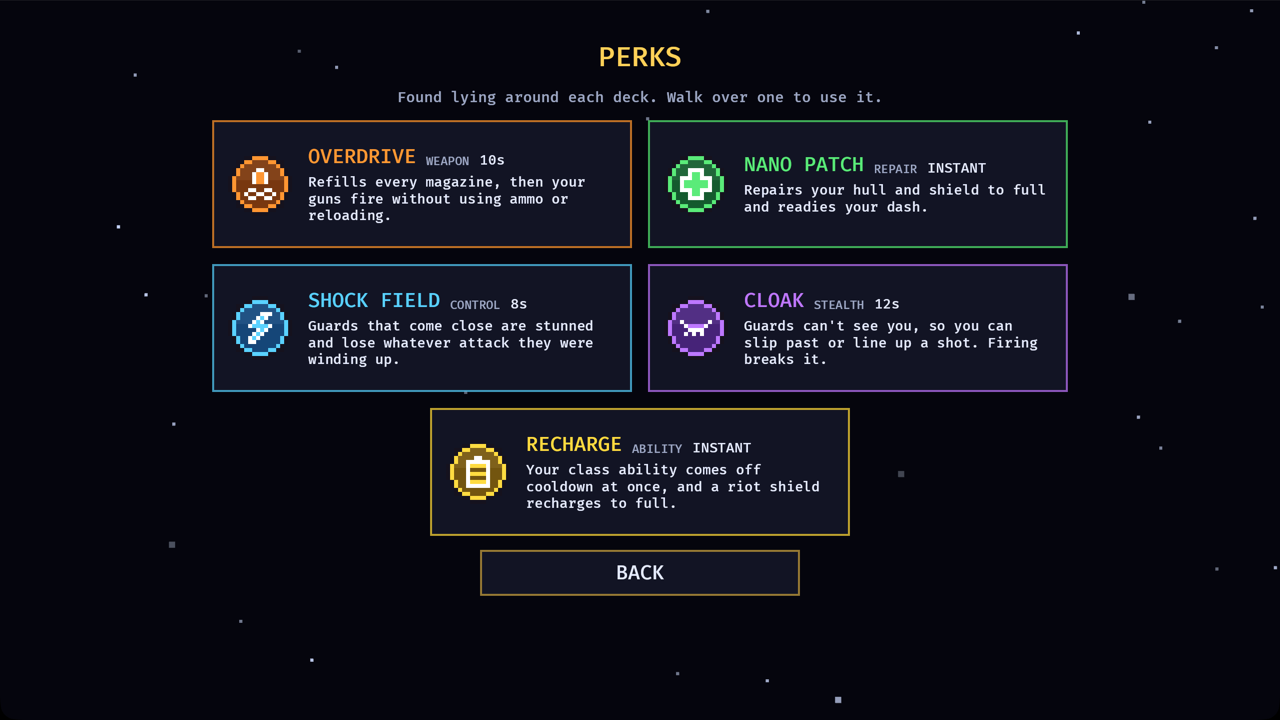
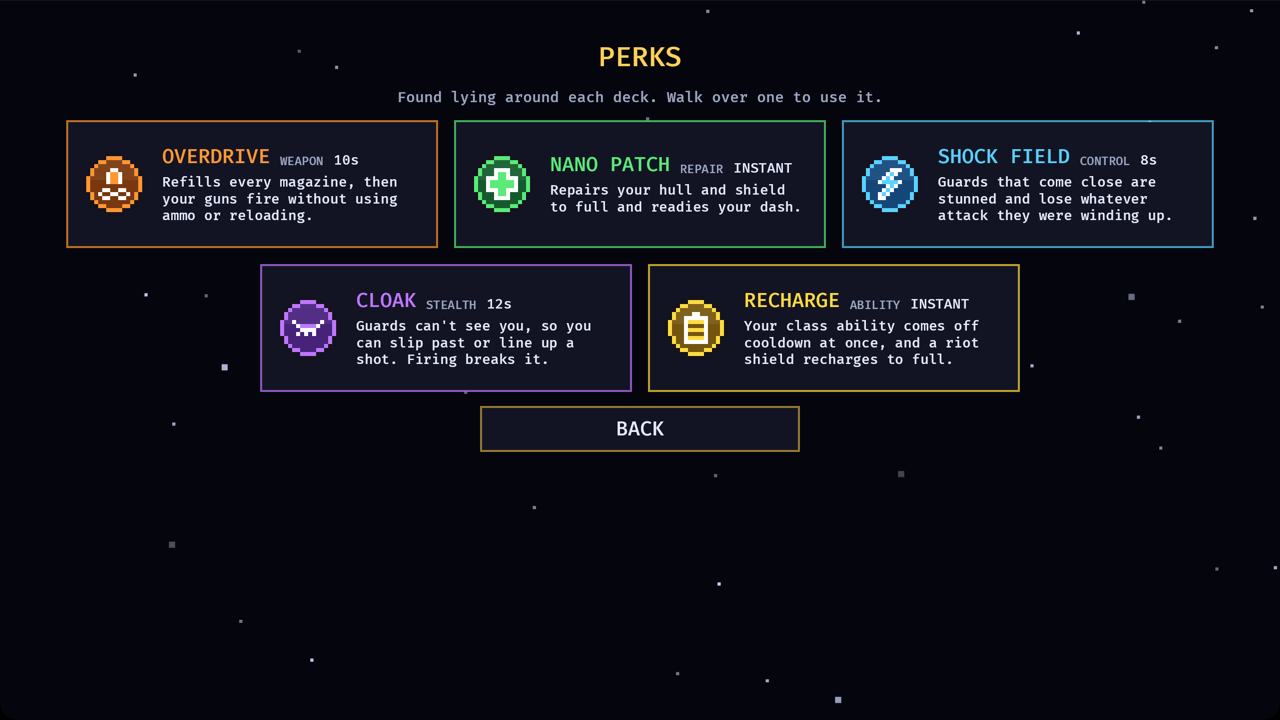
Updated the README screenshots and fit the enemies screen in 720p
Added shots of the vault breach vote and each of the three bosses, and
retook the enemies and perks screens. The codex screens now lay cards out
three to a row so the enemies screen, with its third boss, fits a 1280x720
window, and card names no longer wrap.

diff --git a/src/menu.rs b/src/menu.rs
@@ -783,14 +783,15 @@ fn codex_screen(
                         row_gap: Val::Px(16.0),
                         flex_wrap: FlexWrap::Wrap,
                         justify_content: JustifyContent::Center,
-                        max_width: Val::Px(900.0),
+                        // Three cards a row, so it all fits a 720 px tall window.
+                        max_width: Val::Px(1180.0),
                         ..default()
                     })
                     .with_children(|grid| {
                         for entry in &section.entries {
                             grid.spawn((
                                 Node {
-                                    width: Val::Px(420.0),
+                                    width: Val::Px(372.0),
                                     min_height: Val::Px(card_height),
                                     align_items: AlignItems::Center,
                                     column_gap: Val::Px(16.0),
@@ -824,15 +825,18 @@ fn codex_screen(
                                     ..default()
                                 })
                                 .with_children(|info| {
+                                    // Names stay whole; the tag drops below one that's too long.
                                     info.spawn(Node {
                                         column_gap: Val::Px(10.0),
+                                        row_gap: Val::Px(2.0),
+                                        flex_wrap: FlexWrap::Wrap,
                                         align_items: AlignItems::Baseline,
                                         ..default()
                                     })
                                     .with_children(|heading| {
-                                        heading.spawn(label(entry.name, 20.0, entry.color));
-                                        heading.spawn(label(entry.tag, 12.0, DIM));
-                                        heading.spawn(label(entry.note.clone(), 14.0, TEXT));
+                                        heading.spawn((label(entry.name, 20.0, entry.color), TextLayout::no_wrap()));
+                                        heading.spawn((label(entry.tag, 12.0, DIM), TextLayout::no_wrap()));
+                                        heading.spawn((label(entry.note.clone(), 14.0, TEXT), TextLayout::no_wrap()));
                                     });
                                     info.spawn(label(entry.details, 14.0, TEXT));
                                 });

diff --git a/README.md b/README.md
@@ -114,6 +114,10 @@ Built with Rust and [Bevy](https://bevyengine.org/); LAN multiplayer uses
 | The crew lobby: one of each class, picked by whoever took it | The perks lying around each deck, under **EXTRAS** |
 | ![A raid](docs/screenshots/raid.png) | ![Results](docs/screenshots/results.png) |
 | Two pirates pulling bars out of deck 2's gold vault in lockdown, with guards closing in | The last pirate out takes the crew's pool, plus a bonus for the crewmate who left early |
+| ![Breach vote](docs/screenshots/breach.png) | ![Vault Keeper](docs/screenshots/boss_keeper.png) |
+| A crewmate calls the crew into the sealed vault: everyone has to press Y | The Vault Keeper sweeping a laser past the crew |
+| ![Vault Stalker](docs/screenshots/boss_stalker.png) | ![Vault Brute](docs/screenshots/boss_brute.png) |
+| The Vault Stalker winding up: three ways it might lunge, and only it knows which | The Vault Brute roaring guards in, one more appearing at the glowing spot |
 | ![Enemies](docs/screenshots/enemies.png) | |
 | The station's guards and vault bosses, under **EXTRAS** in the main menu | |
 
